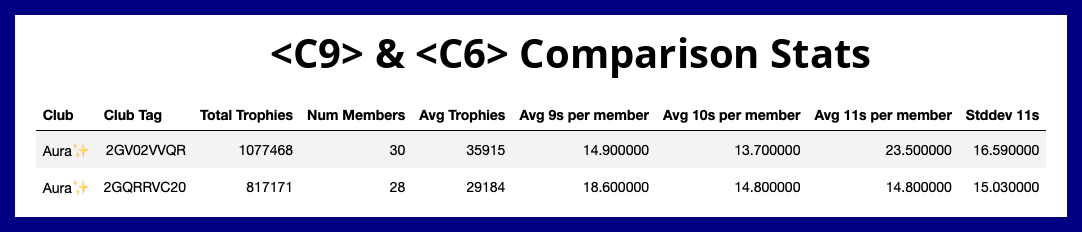
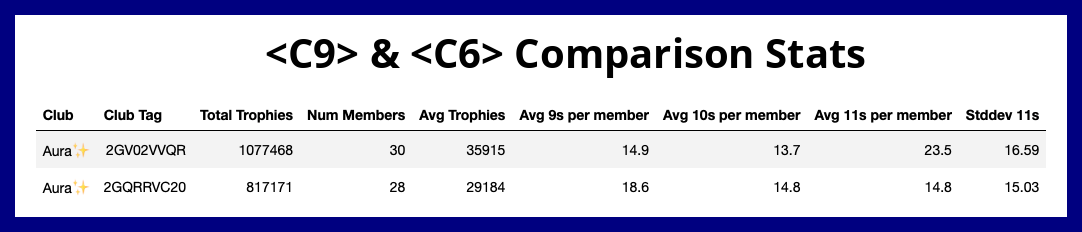
remove dp for comparison

diff --git a/aura.py b/aura.py
@@ -201,6 +201,10 @@ dfi.export(team2.style.hide_index(), c6_team_averages_png)
 print('[Output] '+c6_team_averages_png)
 
 comparison_df = pd.read_csv(comparison)
+cols_to_round = ['Avg 9s per member', 'Avg 9s per member','Avg 10s per member','Avg 11s per member','Stddev 11s']
+for col in cols_to_round:
+    comparison_df[col] = comparison_df[col].astype(str)
+
 dfi.export(comparison_df.style.hide_index(),comparison_c6_png)
 dfi.export(comparison_df.style.hide_index(),comparison_c9_png)
 
@@ -229,8 +233,8 @@ def pad_add_text(image_path, margin, font_size, text_xy, text_value, output_path
     print('[Format]', output_path)
 
 # Comparison
-pad_add_text(comparison_c9_png, [93, 20, 20, 20], 40, (270, 25), "<C9> & <C6> Comparison Stats", comparison_c9_png, 'maroon', 15)
-pad_add_text(comparison_c6_png, [93, 20, 20, 20], 40, (270, 25), "<C9> & <C6> Comparison Stats", comparison_c6_png, 'navy', 15)
+pad_add_text(comparison_c9_png, [93, 20, 20, 20], 40, (265, 25), "<C9> & <C6> Comparison Stats", comparison_c9_png, 'maroon', 15)
+pad_add_text(comparison_c6_png, [93, 20, 20, 20], 40, (265, 25), "<C9> & <C6> Comparison Stats", comparison_c6_png, 'navy', 15)
 
 # Barchart
 pad_add_text(c9_barchart, [25, 20, 20, 20], 70, (455, 40), "<C9> Number of Power 11 Brawlers", c9_barchart, 'maroon', 30)
